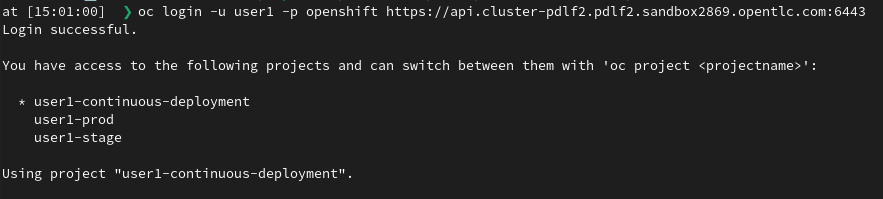
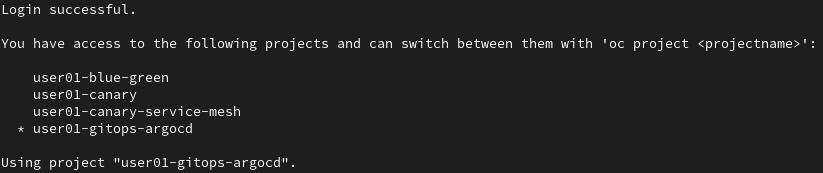
[CI] Publish Documentation for ed66ff4126a198a2380ccfacd2f4a6b609f19b3e - ed66ff4126a198a2380ccfacd2f4a6b609f19b3e 🚀

diff --git a/redhat-workshop-deployment-strategies/01-setup.html b/redhat-workshop-deployment-strategies/01-setup.html
@@ -315,8 +315,12 @@ Please review the official documentation to install the latest versions of these
 <td class="tableblock halign-center valign-top"><p class="tableblock">%USER%-canary</p></td>
 </tr>
 <tr>
+<td class="tableblock halign-center valign-top"><p class="tableblock">App Namespace for Canary deployment with Service Mesh</p></td>
+<td class="tableblock halign-center valign-top"><p class="tableblock">%USER%-canary-service-mesh</p></td>
+</tr>
+<tr>
 <td class="tableblock halign-center valign-top"><p class="tableblock">ArgoCD console</p></td>
-<td class="tableblock halign-center valign-top"><p class="tableblock">TODO</p></td>
+<td class="tableblock halign-center valign-top"><p class="tableblock"><em><a href="https://argocd-server-user01-gitops-argocd.apps.%CLUSTER%/" class="bare">https://argocd-server-user01-gitops-argocd.apps.%CLUSTER%/</a></em></p></td>
 </tr>
 </tbody>
 </table>
@@ -350,16 +354,17 @@ Please review the official documentation to install the latest versions of these
 </div>
 <div class="listingblock lines_space console-input">
 <div class="content">
-<pre class="highlightjs highlight"><code class="language-bash hljs" data-lang="bash">oc login -u %USER% -p openshift https://api.%CLUSTER%:6443</code></pre>
+<pre class="highlightjs highlight"><code class="language-bash hljs" data-lang="bash">oc login -u %USER% -p %USER% https://api.%CLUSTER%:6443</code></pre>
 </div>
 </div>
 <div class="paragraph">
 <p>If the login is successful, it should show an output similar to the following screenshot:</p>
 </div>
-<div class="paragraph">
-<div class="title">OC CLI Login Output</div>
-<p>TODO change this image
-image::oc_login_output.png["OC CLI Login Output"]</p>
+<div class="imageblock">
+<div class="content">
+<img src="_images/oc_login_output.png" alt="OC CLI Login Output">
+</div>
+<div class="title">Figure 2. OC CLI Login Output</div>
 </div>
 <div class="admonitionblock tip">
 <table>
@@ -387,19 +392,45 @@ Please pay special attention to <em>oc CLI</em>  because you will need to use th
 <li>
 <p><strong>%USER%-canary</strong>: Will contain the application using Canary deployment.</p>
 </li>
+<li>
+<p><strong>%USER%-canary-service-mesh</strong>: Will contain the application using Canary deployment with Service Mesh.</p>
+</li>
 </ul>
 </div>
 <div class="paragraph">
-<p>Each user will have its own three namespaces.</p>
+<p>Each user will have its own four namespaces.</p>
 </div>
 </div>
 <div class="sect2">
 <h3 id="01-accessArgoCD"><a class="anchor" href="#01-accessArgoCD"></a>Access - ArgoCD dashboard</h3>
 <div class="paragraph">
-<p>The ArgoCD web console will give you access to control how the git repo is synced with Openshift, as well as check the real status of the synchronization. In order to log in to the web console, access the Openshift web console and click on the following icon: You will get the link to the ArgoCD web console:</p>
+<p>The ArgoCD web console will give you access to control how the git repo is synced with Openshift, as well as check the real status of the synchronization. In order to log in to the web console, access to <em><a href="https://argocd-server-user01-gitops-argocd.apps.%CLUSTER%/" class="bare">https://argocd-server-user01-gitops-argocd.apps.%CLUSTER%/</a></em></p>
 </div>
 <div class="paragraph">
-<p>TODO</p>
+<p>Argo CD upon installation generates an initial admin password which is stored in a Kubernetes secret. In order to retrieve this password, run the following command to decrypt the admin password:</p>
+</div>
+<div class="listingblock">
+<div class="content">
+<pre class="highlightjs highlight"><code class="language-none hljs">oc extract secret/argocd-cluster -n {user}-gitops-argocd --to=-</code></pre>
+</div>
+</div>
+<div class="paragraph">
+<p>Log into Argo CD with <code>admin</code> username and the password retrieved from the previous step.</p>
+</div>
+<div class="imageblock">
+<div class="content">
+<img src="_images/argocd_login.png" alt="ArgoCD login screen">
+</div>
+<div class="title">Figure 3. ArgoCD login screen</div>
+</div>
+<div class="paragraph">
+<p>If the login is successful, you will see the home screen where your applications will be created.</p>
+</div>
+<div class="imageblock">
+<div class="content">
+<img src="_images/argocd_applications.png" alt="ArgoCD applications">
+</div>
+<div class="title">Figure 4. ArgoCD applications</div>
 </div>
 </div>
 <div class="sect2">
